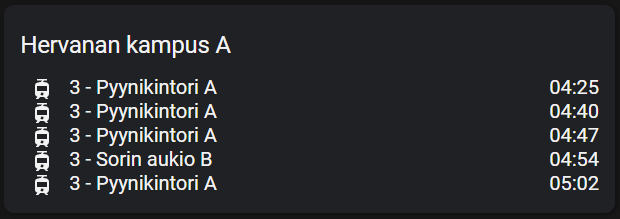
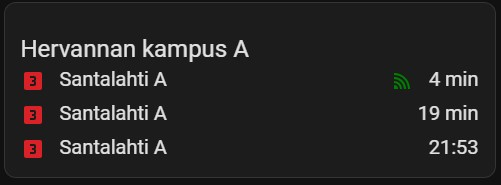
Update documents

diff --git a/README.md b/README.md
@@ -30,15 +30,18 @@ type: custom:html-template-card
 title: Hervanan kampus A
 ignore_line_breaks: true
 content: >
-  {% for departure in
-  states.sensor.hervannan_kampus_a_0835.attributes.departures %}
+  <div style="font-size:24px"><br>Hervannan kampus A</div>
+  {% set departures = state_attr('sensor.hervannan_kampus_a_0835','departures') %}
+  {% for i in range(0, departures | count, 1) %}
 
-  <div style="display:grid; grid-template-columns: 2fr 0.5fr; font-size: 20px">
-  <div><ha-icon style="padding: 10px 10px 10px 10px" icon={{ departure.icon
-  }}></ha-icon> {{ departure.line }} - {{ departure.destination }}</div><div
-  style="text-align: right"> {% if departure.time_to_station | int < 26  %}
-  {{departure.time_to_station }} min {% else %} {{departure.departure}} {% endif
-  %}</div></div>
+  <div style="display:grid; grid-template-columns: 2fr 1fr; font-size: 20px;
+  padding: 10px 0px 0px 0px"> <div><ha-icon style="padding: 0px 10px 10px 0px;
+  color:#da2128" icon="mdi:numeric-3-box"></ha-icon> {{ departures[i].destination
+  }}</div><div style="text-align: right">{% if departures[i].realtime %}<ha-icon
+  style="color:green; padding: 0px 10px 0px 0px"
+  icon="mdi:signal-variant"></ha-icon>{% endif %} {% if
+  departures[i].time_to_station | int < 21  %} {{departures[i].time_to_station}} min {%
+  else %}{{departures[i].departure}}{% endif %}</div></div>
 
   {% endfor %}
   ```
